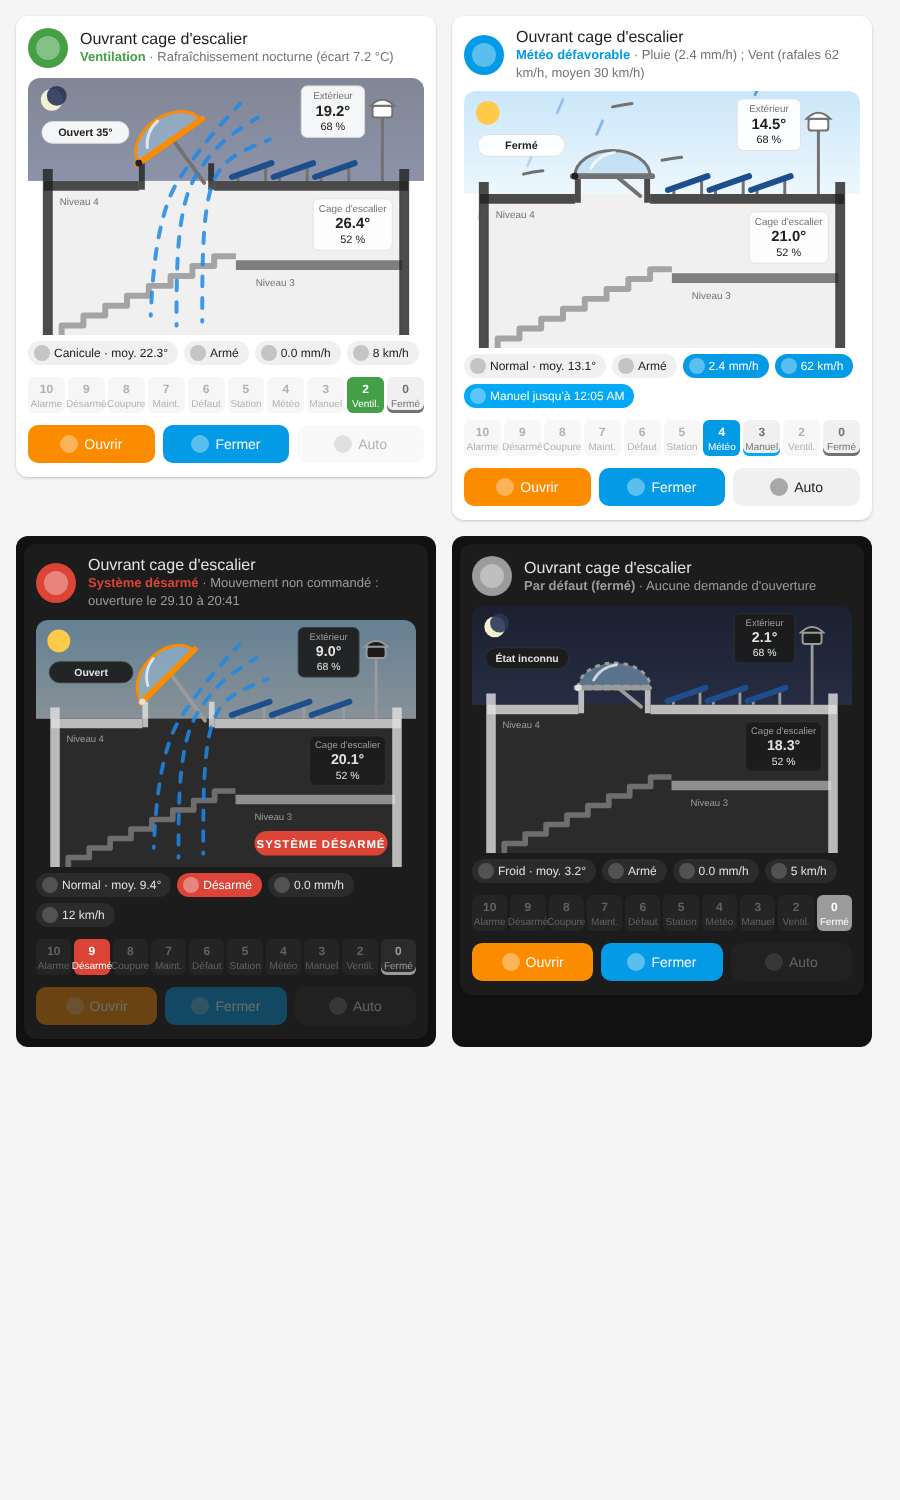
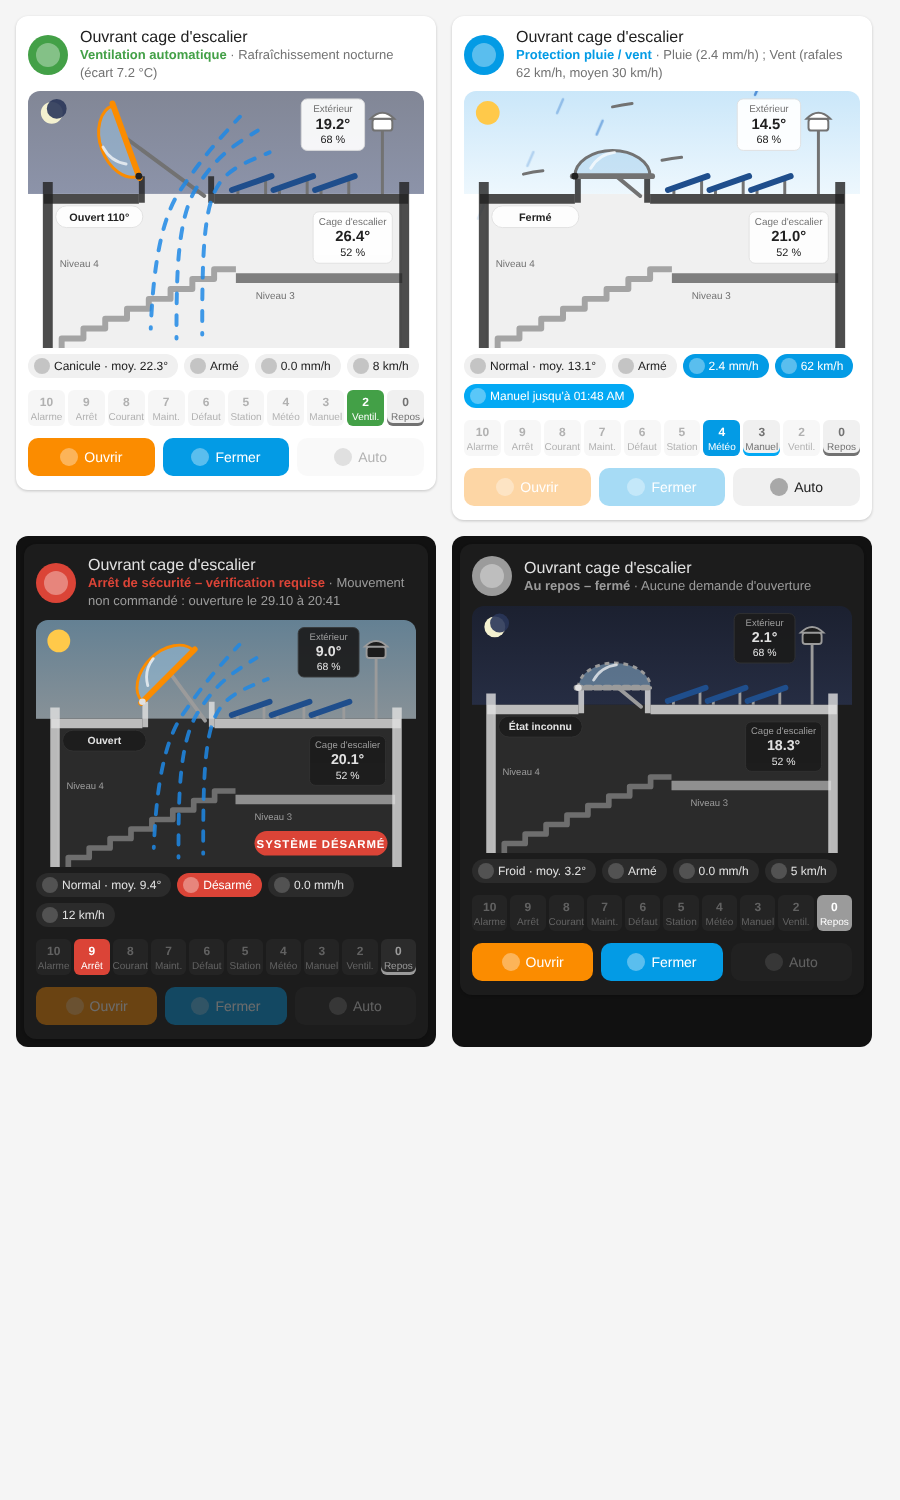
Noms de niveaux plus clairs, boutons bloqués dès le niveau 4, coupole jusqu'à 120° (v0.4.0)
- Niveaux renommés (Alarme incendie, Arrêt de sécurité, Coupure de courant,
  Maintenance en cours, Défaut de l'installation, Station météo hors
  service, Protection pluie / vent, Commande manuelle, Ventilation
  automatique, Au repos – fermé)
- Ouvrir / Fermer refusés par l'intégration et grisés dans la carte à
  partir du niveau 4 ; Auto reste disponible
- Carte : coupole affichée jusqu'à 120°, état de la coupole sous le toit

Claude-Session: https://claude.ai/code/session_01NWzDZb3eUXsT12bFPqEKAE

diff --git a/custom_components/ventilation_desenfumage/frontend/ventilation-desenfumage-card.js b/custom_components/ventilation_desenfumage/frontend/ventilation-desenfumage-card.js
@@ -9,7 +9,10 @@
  * sont lues dans l'attribut « entites » du capteur de décision.
  */
 
-const CARD_VERSION = "0.3.2";
+const CARD_VERSION = "0.4.0";
+
+const MAX_ANGLE = 120; // ouverture maximale de la coupole (°)
+const MANUAL_BLOCK_PRIORITY = 4; // boutons Ouvrir / Fermer bloqués à partir de ce niveau
 
 const LEVEL_COLORS = {
   alarme: "var(--error-color, #db4437)",
@@ -25,8 +28,8 @@ const LEVEL_COLORS = {
 };
 
 const SHORT_LABEL = {
-  alarme: "Alarme", desarme: "Désarmé", coupure: "Coupure", maintenance: "Maint.", defaut: "Défaut",
-  station: "Station", meteo: "Météo", manuel: "Manuel", ventilation: "Ventil.", defaut_ferme: "Fermé",
+  alarme: "Alarme", desarme: "Arrêt", coupure: "Courant", maintenance: "Maint.", defaut: "Défaut",
+  station: "Station", meteo: "Météo", manuel: "Manuel", ventilation: "Ventil.", defaut_ferme: "Repos",
 };
 
 const SEASON_LABEL = { froid: "Froid", normal: "Normal", canicule: "Canicule" };
@@ -54,6 +57,11 @@ function fmt(v, unit, digits = 1) {
 
 function esc(s) {
   return String(s ?? "").replace(/[&<>"']/g, (c) => ({ "&": "&amp;", "<": "&lt;", ">": "&gt;", '"': "&quot;", "'": "&#39;" }[c]));
+}
+
+function isArmedFor(hass, ent) {
+  const s = ent && ent.armed_switch ? hass.states[ent.armed_switch] : null;
+  return s ? s.state === "on" : true;
 }
 
 class VentilationDesenfumageCard extends HTMLElement {
@@ -143,7 +151,7 @@ class VentilationDesenfumageCard extends HTMLElement {
     const isOpen = doorKnown && door.state === "on";
     const tilt = num(this._st("door_tilt"));
     let angle = 0;
-    if (isOpen) angle = tilt !== null ? Math.max(25, Math.min(90, tilt)) : 45;
+    if (isOpen) angle = tilt !== null ? Math.max(15, Math.min(MAX_ANGLE, tilt)) : 45;
     const doorText = !doorKnown ? "État inconnu" : isOpen ? (tilt !== null ? `Ouvert ${Math.round(tilt)}°` : "Ouvert") : "Fermé";
 
     // --- Mesures
@@ -162,6 +170,11 @@ class VentilationDesenfumageCard extends HTMLElement {
     const alarm = key === "alarme";
     const sun = hass.states["sun.sun"];
     const night = sun ? sun.state === "below_horizon" : false;
+
+    // --- Boutons manuels : bloqués si système désarmé ou niveau prioritaire actif
+    const prio = Number(a.priorite ?? 0);
+    const manualOk = isArmedFor(hass, ent) && prio < MANUAL_BLOCK_PRIORITY;
+    const manualWhy = manualOk ? "" : `Commande impossible : ${dec.state}`;
 
     // --- Chips
     const armed = hass.states[ent.armed_switch];
@@ -230,7 +243,7 @@ class VentilationDesenfumageCard extends HTMLElement {
 
           <!-- intérieur : niveau 4 et moitié du niveau 3 -->
           <rect x="22" y="${ROOF_Y}" width="356" height="${260 - ROOF_Y}" class="inside"/>
-          <text x="32" y="${ROOF_Y + 24}" class="cap">Niveau 4</text>
+          <text x="32" y="${FLOOR4_Y - 6}" class="cap">Niveau 4</text>
           <text x="${stairEndX + 20}" y="${FLOOR4_Y + 26}" class="cap">Niveau 3</text>
 
           <!-- escalier (monte de gauche à droite jusqu'au niveau 4) -->
@@ -295,8 +308,8 @@ class VentilationDesenfumageCard extends HTMLElement {
           </g>
 
           <g class="lbl door" data-mi="door">
-            <rect x="14" y="44" width="88" height="22" rx="11"/>
-            <text x="58" y="59" text-anchor="middle" class="small b">${esc(doorText)}</text>
+            <rect x="28" y="${ROOF_Y + 12}" width="88" height="22" rx="11"/>
+            <text x="72" y="${ROOF_Y + 27}" text-anchor="middle" class="small b">${esc(doorText)}</text>
           </g>
 
           ${!isArmed ? `<g class="stamp"><rect x="230" y="222" width="140" height="26" rx="13"/><text x="300" y="240" text-anchor="middle">SYSTÈME DÉSARMÉ</text></g>` : ""}
@@ -314,8 +327,8 @@ class VentilationDesenfumageCard extends HTMLElement {
         ${this._config.show_pipeline ? `<div class="pipe">${pipeline}</div>` : ""}
 
         ${this._config.show_buttons ? `<div class="btns">
-          <button class="open" data-act="open" ${isArmed ? "" : "disabled"}><ha-icon icon="mdi:arrow-up-bold"></ha-icon>Ouvrir</button>
-          <button class="close" data-act="close" ${isArmed ? "" : "disabled"}><ha-icon icon="mdi:arrow-down-bold"></ha-icon>Fermer</button>
+          <button class="open" data-act="open" ${manualOk ? "" : "disabled"} title="${esc(manualWhy)}"><ha-icon icon="mdi:arrow-up-bold"></ha-icon>Ouvrir</button>
+          <button class="close" data-act="close" ${manualOk ? "" : "disabled"} title="${esc(manualWhy)}"><ha-icon icon="mdi:arrow-down-bold"></ha-icon>Fermer</button>
           <button class="auto" data-act="auto" ${ovText ? "" : "disabled"}><ha-icon icon="mdi:autorenew"></ha-icon>Auto</button>
         </div>` : ""}
       </ha-card>`;

diff --git a/tests/test_integration.py b/tests/test_integration.py
@@ -89,7 +89,7 @@ async def _tick(hass, freezer, delta: timedelta):
 async def test_setup_default_closed(hass, freezer, monkeypatch):
     entry, on, off = await _setup(hass, freezer, monkeypatch, _local(hass, 9, 0))
     st = _decision(hass)
-    assert st.state == "Par défaut (fermé)"
+    assert st.state == "Au repos – fermé"
     assert hass.states.get(f"sensor.{PREFIX}_mode_saisonnier").state == "normal"
     assert hass.states.get(f"switch.{PREFIX}_systeme_arme").state == "on"
     # première décision : une impulsion FERMER
@@ -100,7 +100,7 @@ async def test_normal_mode_daily_aeration(hass, freezer, monkeypatch):
     entry, on, off = await _setup(hass, freezer, monkeypatch, _local(hass, 12, 29))
     on.clear()
     await _tick(hass, freezer, timedelta(minutes=2))  # 12:31
-    assert _decision(hass).state == "Ventilation"
+    assert _decision(hass).state == "Ventilation automatique"
     assert [c.data["entity_id"] for c in on] == ["switch.shelly_a"]
     # interlock : FERMER relâché avant OUVRIR
     assert any(c.data["entity_id"] == "switch.shelly_b" for c in off)
@@ -109,7 +109,7 @@ async def test_normal_mode_daily_aeration(hass, freezer, monkeypatch):
     await _tick(hass, freezer, timedelta(minutes=6))  # 12:37
     assert on == []
     await _tick(hass, freezer, timedelta(minutes=4))  # 12:41
-    assert _decision(hass).state == "Par défaut (fermé)"
+    assert _decision(hass).state == "Au repos – fermé"
     assert [c.data["entity_id"] for c in on] == ["switch.shelly_b"]
 
 
@@ -120,11 +120,11 @@ async def test_weather_beats_manual_open(hass, freezer, monkeypatch):
     assert _decision(hass).state == "Commande manuelle"
     hass.states.async_set("sensor.ws90_rain", "1.2")
     await hass.async_block_till_done()
-    assert _decision(hass).state == "Météo défavorable"
+    assert _decision(hass).state == "Protection pluie / vent"
     # la pluie s'arrête : on reste fermé pendant le séchage
     hass.states.async_set("sensor.ws90_rain", "0")
     await hass.async_block_till_done()
-    assert _decision(hass).state == "Météo défavorable"
+    assert _decision(hass).state == "Protection pluie / vent"
     assert "Séchage" in _decision(hass).attributes["raison"]
 
 
@@ -136,7 +136,7 @@ async def test_unknown_movement_disarms(hass, freezer, monkeypatch):
     arme = hass.states.get(f"switch.{PREFIX}_systeme_arme")
     assert arme.state == "off"
     assert "Mouvement non commandé" in arme.attributes["raison_desarmement"]
-    assert _decision(hass).state == "Système désarmé"
+    assert _decision(hass).state == "Arrêt de sécurité – vérification requise"
     # aucune commande tant que désarmé
     on.clear()
     await _tick(hass, freezer, timedelta(minutes=5))
@@ -164,7 +164,7 @@ async def test_alarm_disarms_and_blocks_rearm(hass, freezer, monkeypatch, hass_a
     entry, on, off = await _setup(hass, freezer, monkeypatch, _local(hass, 9, 0))
     hass.states.async_set("binary_sensor.shelly_a_input", "on")
     await hass.async_block_till_done()
-    assert _decision(hass).state == "Alarme désenfumage"
+    assert _decision(hass).state == "Alarme incendie"
     assert hass.states.get(f"switch.{PREFIX}_systeme_arme").state == "off"
     with pytest.raises(HomeAssistantError):
         await hass.services.async_call(
@@ -178,10 +178,10 @@ async def test_power_cut_and_maintenance(hass, freezer, monkeypatch):
     hass.states.async_set("switch.shelly_a", "unavailable")
     hass.states.async_set("switch.shelly_b", "unavailable")
     await hass.async_block_till_done()
-    assert _decision(hass).state == "Maintenance"
+    assert _decision(hass).state == "Maintenance en cours"
     hass.states.async_set("sensor.ups_status", "OB DISCHRG")
     await hass.async_block_till_done()
-    assert _decision(hass).state == "Coupure secteur"
+    assert _decision(hass).state == "Coupure de courant"
 
 
 async def test_fault_relay_closes(hass, freezer, monkeypatch):
@@ -189,7 +189,7 @@ async def test_fault_relay_closes(hass, freezer, monkeypatch):
     hass.states.async_set("binary_sensor.shelly_b_input", "off")  # contact NF ouvert
     await hass.async_block_till_done()
     await _tick(hass, freezer, timedelta(seconds=40))  # anti-rebond
-    assert _decision(hass).state == "Défaut"
+    assert _decision(hass).state == "Défaut de l'installation"
 
 
 async def test_permission_required_to_arm(hass, freezer, monkeypatch, hass_admin_user, hass_read_only_user):
@@ -218,12 +218,12 @@ async def test_heat_mode_night_ventilation(hass, freezer, monkeypatch):
     end = dt_util.parse_datetime(attrs["fenetre_nocturne_fin"])
     now = dt_util.utcnow()
     assert start <= now < end
-    assert _decision(hass).state == "Ventilation"
+    assert _decision(hass).state == "Ventilation automatique"
     assert [c.data["entity_id"] for c in on][-1] == "switch.shelly_a"
     # la cage est refroidie : arrêt et fermeture
     hass.states.async_set("sensor.cage_temp", "19.8")
     await hass.async_block_till_done()
-    assert _decision(hass).state == "Par défaut (fermé)"
+    assert _decision(hass).state == "Au repos – fermé"
     assert "Cible atteinte" in _decision(hass).attributes["ventilation"]
     assert [c.data["entity_id"] for c in on][-1] == "switch.shelly_b"
 
@@ -232,15 +232,15 @@ async def test_station_failure(hass, freezer, monkeypatch):
     entry, on, off = await _setup(hass, freezer, monkeypatch, _local(hass, 9, 0))
     hass.states.async_set("sensor.ws90_gust", "unavailable")
     await hass.async_block_till_done()
-    assert _decision(hass).state == "Panne station météo"
+    assert _decision(hass).state == "Station météo hors service"
     hass.states.async_set("sensor.ws90_gust", "5", {"unit_of_measurement": "m/s"})
     await hass.async_block_till_done()
-    assert _decision(hass).state == "Par défaut (fermé)"
+    assert _decision(hass).state == "Au repos – fermé"
     # plus de données pendant 20 min : station considérée en panne
     freezer.tick(timedelta(minutes=20))
     async_fire_time_changed(hass, dt_util.utcnow())
     await hass.async_block_till_done()
-    assert _decision(hass).state == "Panne station météo"
+    assert _decision(hass).state == "Station météo hors service"
     assert "sans mise à jour" in _decision(hass).attributes["station_meteo"]
 
 
@@ -300,3 +300,17 @@ async def test_card_entity_map(hass, freezer, monkeypatch):
     assert ent["close_button"] == f"button.{PREFIX}_fermer"
     assert ent["resume_button"] == f"button.{PREFIX}_retour_en_automatique"
     assert ent["season"] == f"sensor.{PREFIX}_mode_saisonnier"
+
+
+async def test_manual_buttons_blocked_from_level_4(hass, freezer, monkeypatch):
+    entry, on, off = await _setup(hass, freezer, monkeypatch, _local(hass, 9, 0))
+    hass.states.async_set("sensor.ws90_rain", "2")
+    await hass.async_block_till_done()
+    assert _decision(hass).state == "Protection pluie / vent"
+    for name in ("ouvrir", "fermer"):
+        with pytest.raises(HomeAssistantError, match="Commande impossible"):
+            await hass.services.async_call("button", "press", {"entity_id": f"button.{PREFIX}_{name}"}, blocking=True)
+    # le retour en automatique reste possible
+    await hass.services.async_call(
+        "button", "press", {"entity_id": f"button.{PREFIX}_retour_en_automatique"}, blocking=True
+    )

diff --git a/custom_components/ventilation_desenfumage/logic.py b/custom_components/ventilation_desenfumage/logic.py
@@ -29,16 +29,16 @@ TARGET_OPEN = "ouvrir"
 TARGET_CLOSE = "fermer"
 
 # Niveaux du pipeline : (priorité, clé, libellé)
-LEVEL_ALARM = (10, "alarme", "Alarme désenfumage")
-LEVEL_DISARMED = (9, "desarme", "Système désarmé")
-LEVEL_POWER_CUT = (8, "coupure", "Coupure secteur")
-LEVEL_MAINTENANCE = (7, "maintenance", "Maintenance")
-LEVEL_FAULT = (6, "defaut", "Défaut")
-LEVEL_STATION = (5, "station", "Panne station météo")
-LEVEL_WEATHER = (4, "meteo", "Météo défavorable")
+LEVEL_ALARM = (10, "alarme", "Alarme incendie")
+LEVEL_DISARMED = (9, "desarme", "Arrêt de sécurité – vérification requise")
+LEVEL_POWER_CUT = (8, "coupure", "Coupure de courant")
+LEVEL_MAINTENANCE = (7, "maintenance", "Maintenance en cours")
+LEVEL_FAULT = (6, "defaut", "Défaut de l'installation")
+LEVEL_STATION = (5, "station", "Station météo hors service")
+LEVEL_WEATHER = (4, "meteo", "Protection pluie / vent")
 LEVEL_OVERRIDE = (3, "manuel", "Commande manuelle")
-LEVEL_VENTILATION = (2, "ventilation", "Ventilation")
-LEVEL_DEFAULT = (0, "defaut_ferme", "Par défaut (fermé)")
+LEVEL_VENTILATION = (2, "ventilation", "Ventilation automatique")
+LEVEL_DEFAULT = (0, "defaut_ferme", "Au repos – fermé")
 
 ALL_LEVELS = [
     LEVEL_ALARM,

diff --git a/custom_components/ventilation_desenfumage/coordinator.py b/custom_components/ventilation_desenfumage/coordinator.py
@@ -89,6 +89,7 @@ _LOGGER = logging.getLogger(__name__)
 
 _INVALID = (None, STATE_UNAVAILABLE, STATE_UNKNOWN, "")
 MAX_CLOSE_RETRIES = 3
+MANUAL_BLOCK_PRIORITY = 4  # boutons Ouvrir / Fermer bloqués à partir de ce niveau
 
 
 class VentilationCoordinator(DataUpdateCoordinator[Decision]):
@@ -614,6 +615,8 @@ class VentilationCoordinator(DataUpdateCoordinator[Decision]):
         """Commande manuelle OUVRIR / FERMER depuis le dashboard."""
         if not self.settings.armed:
             raise HomeAssistantError("Système désarmé : réarmer avant de commander l'ouvrant")
+        if self.data is not None and self.data.priority >= MANUAL_BLOCK_PRIORITY:
+            raise HomeAssistantError(f"Commande impossible : {self.data.label}")
         name = await self._user_name(context)
         until = dt_util.utcnow() + timedelta(hours=self.settings.override_hours)
         self.override = Override(target, until, name)

diff --git a/README.md b/README.md
@@ -15,18 +15,21 @@ complète est visible dans le dashboard.
 
 ## Pipeline de décision
 
+Les boutons **Ouvrir / Fermer** sont refusés à partir du niveau 4 (et grisés dans la carte).
+Pour les automatisations, comparer l'attribut `cle` du capteur de décision plutôt que son texte.
+
 | Prio | Niveau | Condition | Action |
 |---:|---|---|---|
-| 10 | Alarme désenfumage | Entrée SW du Shelly A active (relais X2.5) | Aucun ordre, désarmement |
-| 9 | Système désarmé | Mouvement non commandé, alarme, ou désarmement manuel | Aucun ordre jusqu'au réarmement |
-| 8 | Coupure secteur | Les deux Shelly hors ligne **et** onduleur sur batterie | Attente (la centrale ferme, S1.6) |
-| 7 | Maintenance | Les deux Shelly hors ligne, secteur présent (interrupteur à clé) | Attente |
-| 6 | Défaut | Entrée SW du Shelly B inactive (relais X2.8 ouvert) ou un seul Shelly hors ligne | Fermer + notification |
-| 5 | Panne station météo | Température, pluie ou rafales indisponibles ou trop anciennes | Fermer |
-| 4 | Météo défavorable | Pluie (+ attente de séchage), vent / rafales (+ attente), risque de précipitations | Fermer |
+| 10 | Alarme incendie | Entrée SW du Shelly A active (relais X2.5) | Aucun ordre, désarmement |
+| 9 | Arrêt de sécurité – vérification requise | Mouvement non commandé, alarme, ou désarmement manuel | Aucun ordre jusqu'au réarmement |
+| 8 | Coupure de courant | Les deux Shelly hors ligne **et** onduleur sur batterie | Attente (la centrale ferme, S1.6) |
+| 7 | Maintenance en cours | Les deux Shelly hors ligne, secteur présent (interrupteur à clé) | Attente |
+| 6 | Défaut de l'installation | Entrée SW du Shelly B inactive (relais X2.8 ouvert) ou un seul Shelly hors ligne | Fermer + notification |
+| 5 | Station météo hors service | Température, pluie ou rafales indisponibles ou trop anciennes | Fermer |
+| 4 | Protection pluie / vent | Pluie (+ attente de séchage), vent / rafales (+ attente), risque de précipitations | Fermer |
 | 3 | Commande manuelle | Bouton OUVRIR / FERMER du dashboard | Respectée pendant la durée réglée |
-| 2 | Ventilation | Selon le mode saisonnier (voir ci-dessous) | Ouvrir + maintien |
-| 0 | Par défaut | — | Fermer |
+| 2 | Ventilation automatique | Selon le mode saisonnier (voir ci-dessous) | Ouvrir + maintien |
+| 0 | Au repos – fermé | — | Fermer |
 
 ### Modes saisonniers (température extérieure moyenne sur 24 h)
 
